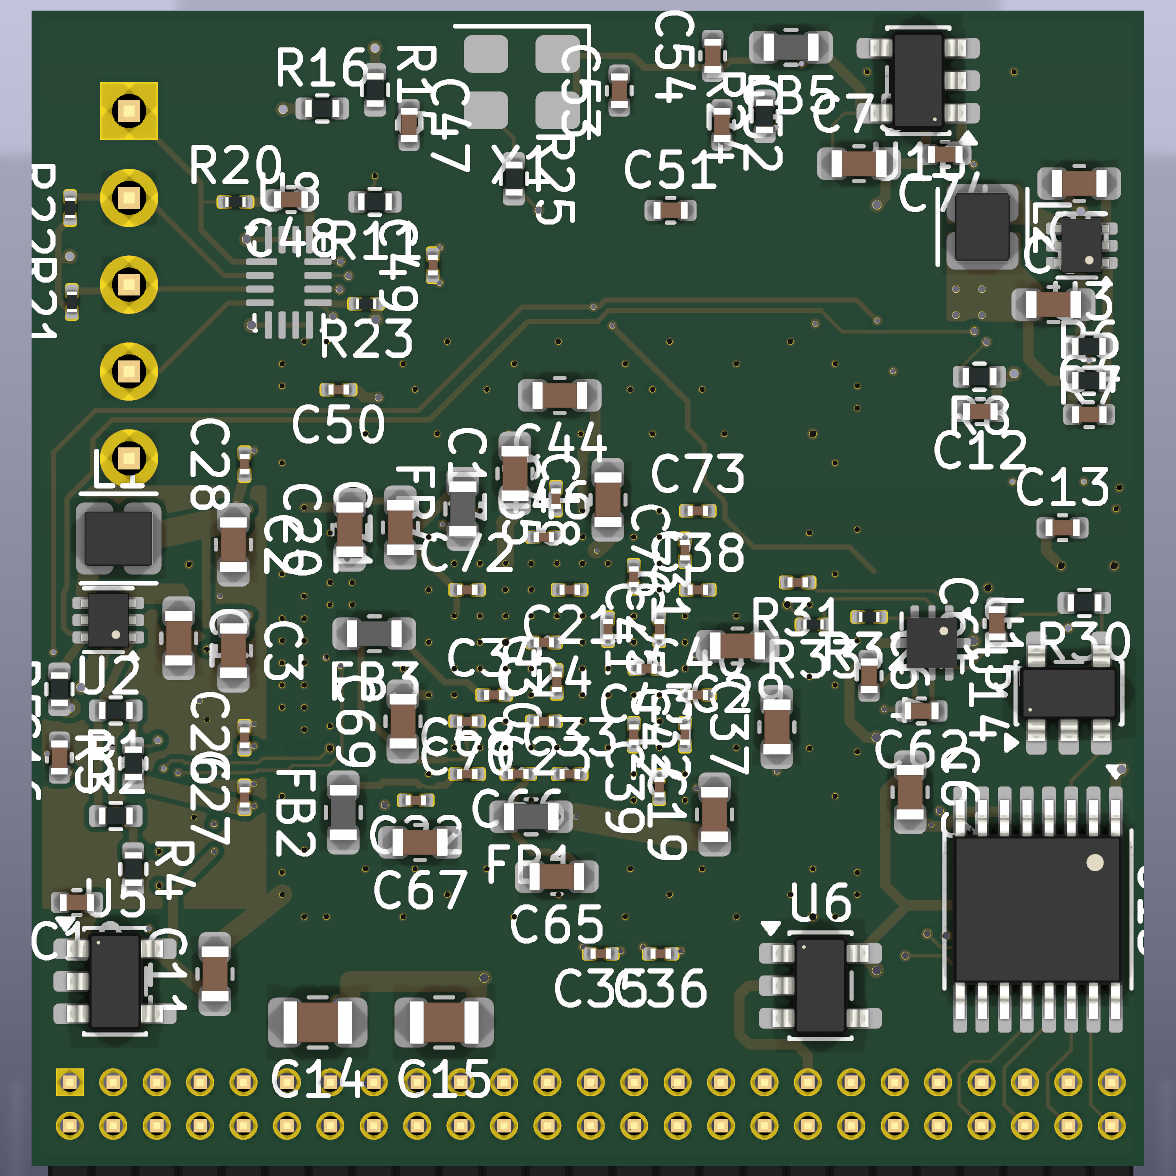
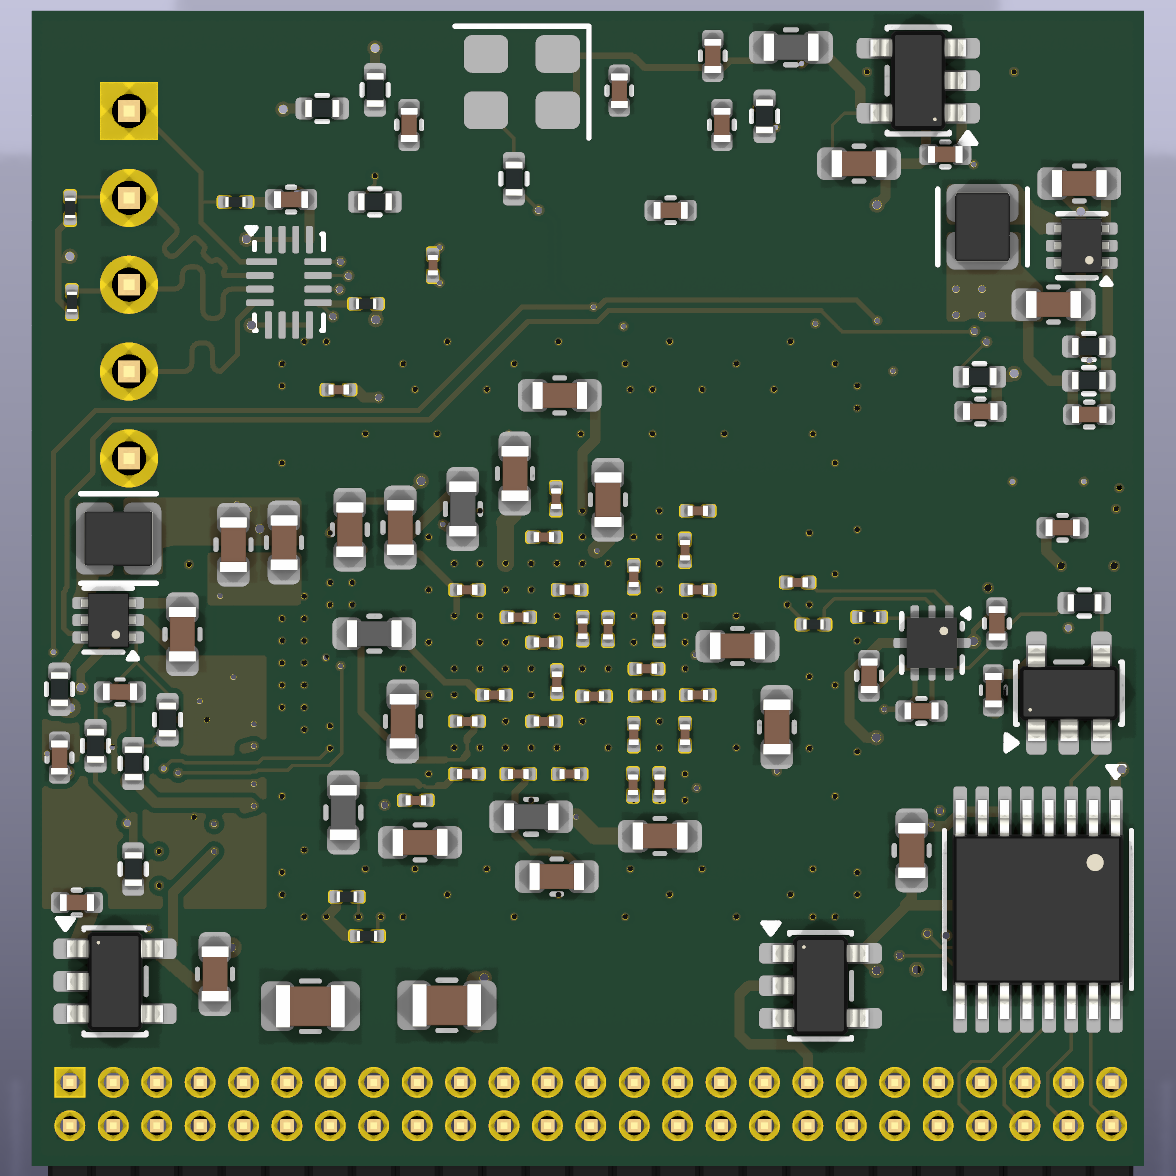
Stackup JLC06161H-3313; docs and board renders for the order
- Board stackup set to JLC06161H-3313 (3313 0.0994 / core 0.55 /
  2116 0.1088 mm), the JLC code to select when ordering. Copper unchanged;
  DRC 0 errors, 0 unconnected, 0 parity.
- docs/img renders regenerated from the final board.
- README: status ready to order, current features, checklists, Global
  Sourcing and stock notes.
- Production checklist: current counts (146 parts, 44 BOM lines, 23
  extended, 270 vias in pads), stock, Global Sourcing workflow, accepted
  deviations. Bring-up checklist: 51k/C77 core divider, PRI_DHB mapping
  question, PWM pull-downs. Design notes: hand-routing and pre-order
  changes, open items. order_checklist.md marked superseded.

diff --git a/docs/jlcpcb_production_checklist.md b/docs/jlcpcb_production_checklist.md
@@ -61,9 +61,9 @@ The numbers below are what the board uses, measured with KiCad's Python on the l
 |---|---|---|
 | Layers / thickness | 6 / 1.6 mm | 6-layer, 1.6 mm offered |
 | Size | 32.5 × 33.8 mm (outline) | above the minimum board size for assembly |
-| Min track width / spacing | 0.09 mm rule, 0.1 mm the narrowest used (853 segments) / 0.1 mm | multilayer min trace/space |
-| Vias (diameter / drill), count | 0.25/0.15 × 217 (216 of them in BGA or 0201 pads), 0.3/0.15 × 73, 0.35/0.2 × 37, 0.45/0.25 × 27 | min via 0.15 mm drill / 0.25 mm diameter for multilayer |
-| Via-in-pad | 267 vias sit in SMD pads | needs **epoxy-filled and capped vias (POFV)**: free on 6+ layers |
+| Min track width / spacing | 0.09 mm rule, 0.1 mm the narrowest used (861 segments) / 0.1 mm | multilayer min trace/space |
+| Vias (diameter / drill), count | 0.25/0.15 × 217 (216 of them in BGA or 0201 pads), 0.3/0.15 × 74, 0.35/0.2 × 37, 0.45/0.25 × 30 | min via 0.15 mm drill / 0.25 mm diameter for multilayer |
+| Via-in-pad | 270 vias sit in SMD pads | needs **epoxy-filled and capped vias (POFV)**: free on 6+ layers |
 | Plated holes | 0.559 mm × 50 (J1, 0.9 mm pads: 0.17 mm annular ring), 1.0 mm × 5 (J2, 1.7 mm pads) | min PTH and annular ring |
 | Drill tool sizes | 0.15, 0.20, 0.25, 0.559, 1.0 mm; no NPTH | |
 | Copper to board edge | ≥ 0.3 mm rule | routed-edge clearance |
@@ -75,8 +75,8 @@ The numbers below are what the board uses, measured with KiCad's Python on the l
   item count, and don't change the design.
 - [ ] **Stackup:** compare the board stackup (KiCad Board Setup → Physical Stackup, or the `(stackup` block in the
   `.kicad_pcb`) with JLC's 6-layer 1.6 mm stackup list.
-  - Board: outer prepreg 0.1 mm "2313", core 0.565 mm, inner prepreg 0.127 mm "2116".
-  - No impedance control is needed. Any JLC 6-layer 1.6 mm stackup is acceptable; note which one the quote uses.
+  - Board: **JLC06161H-3313** (set 2026-10-22): outer prepreg 3313 0.0994 mm, cores 0.55 mm, inner prepreg 2116 0.1088 mm.
+  - Select JLC06161H-3313 in the order form. No impedance control is needed.
 
 ## 3. Generate the order files
 
@@ -84,7 +84,7 @@ The numbers below are what the board uses, measured with KiCad's Python on the l
   `KICAD_ROOT=$K tools/fab_outputs.sh`. Files older than the last board commit are stale.
 - [ ] **Expected console summary:**
   - `Found 0 unconnected items`, `Found 0 schematic parity issues`;
-  - `BOM: 43 lines, 141 parts; CPL: 141 placements; left out: J1, J2` (the counts change if parts were added);
+  - `BOM: 44 lines, 146 parts; CPL: 146 placements; left out: J1, J2` (the counts change if parts were added);
   - a `rotation:` line listing the package offsets;
   - `no LCSC number (Global Sourcing / consigned): U1 (A3CZ065BB18AE7S)`.
 - [ ] **Output in `hardware/fab/`:**
@@ -118,7 +118,7 @@ The numbers below are what the board uses, measured with KiCad's Python on the l
 
 - [ ] **Format:** `bom_jlcpcb.csv` has the header `Comment,Designator,Footprint,LCSC Part #`. Every row except U1 has a
   C-number.
-- [ ] **Designators match:** the BOM designators equal the CPL designators exactly (141 each). J1 and J2 are absent from
+- [ ] **Designators match:** the BOM designators equal the CPL designators exactly (146 each). J1 and J2 are absent from
   both.
 - [ ] **Footprint matches JLC's package.** For each LCSC number, `tools/jlc_search.py <C-number>`, then compare the package
   with the footprint size:
@@ -132,20 +132,21 @@ The numbers below are what the board uses, measured with KiCad's Python on the l
   - Required for each part: `canPresaleNumber ≥ quantity per board × number of boards`, and `minPurchaseNum == 1`.
   - `stockCount` can hide oversold parts. The 49.9 k resistor C25897 showed 831 in stock while −38942 were orderable,
     and was replaced with C137969.
-  - Lowest margins at the last check: ADS7056IRUGR C2669798 (2 per board, 34 orderable), MT25QU256 C2061023 (445),
-    AP61302 C3193204 (678).
-- [ ] **Extended parts:** count the extended parts (`componentLibraryType == "expand"`), about 25. Each adds JLC's one-off
+  - Lowest margins at the last check (2026-10-22): ADS7056IRUGR C2669798 (2 per board, 29 orderable), MT25QU256
+    C2061023 (245), AP61302 C3193204 (681). If the ADS7056 runs short, pre-order it into My Parts Lib.
+- [ ] **Extended parts:** count the extended parts (`componentLibraryType == "expand"`, not `preferredComponentFlag`), 23 at the last check. Each adds JLC's one-off
   extended-part fee; report the total.
 - [ ] **U1:**
   - DigiKey/Mouser part A3CZ065BB18AE7S, matched through Global Sourcing in the order's BOM step, or consigned;
   - confirm the exact part number (Z spec, B18A package, E7S grade).
-  - Global Sourcing adds lead time; note the quoted date.
+  - Global Sourcing adds lead time (JLC: review 1–3 business days, purchase usually 9–20). The parts can only be used in
+    an assembly order once they have arrived in JLC's warehouse and show as in stock in Parts Manager → My Parts Lib.
 - [ ] **DNP:** the BOM excludes DNP parts. R14 (MSEL2 pull-up) is DNP and must not be in the BOM.
 
 ## 6. CPL (placement) and rotations
 
-- [ ] **Format:** `cpl_jlcpcb.csv` has the header `Designator,Mid X,Mid Y,Layer,Rotation`, 141 rows. Layer is `Top` or
-  `Bottom`: 36 top and 105 bottom at the last check.
+- [ ] **Format:** `cpl_jlcpcb.csv` has the header `Designator,Mid X,Mid Y,Layer,Rotation`, 146 rows. Layer is `Top` or
+  `Bottom`: 37 top and 109 bottom at the last check.
 - [ ] **Coordinates:** taken from the board origin used by the Gerbers. After upload, every part must land on its pads in
   JLC's preview. A uniform offset means an origin problem.
 - [ ] **Rotation convention** (`tools/jlc_bom_cpl.py`):
@@ -168,7 +169,7 @@ The numbers below are what the board uses, measured with KiCad's Python on the l
 
 PCB:
 - [ ] 6 layers, 1.6 mm, FR-4 TG155 or better (the default for 6 layers).
-- [ ] **Via covering: "Epoxy Filled & Capped"** (POFV). Required: 267 vias are in pads.
+- [ ] **Via covering: "Epoxy Filled & Capped"** (POFV). Required: 270 vias are in pads.
 - [ ] **Surface finish: ENIG.** Needed for flat pads under the 0.65 mm BGA and the 0201s.
 - [ ] Copper: outer 1 oz, inner 0.5 oz.
 - [ ] Min via hole 0.15 mm and min via diameter 0.25 mm, as the quote's via options state.
@@ -178,9 +179,9 @@ PCB:
   fiducials of its own.
 
 Assembly:
-- [ ] Both sides (36 parts on top, 105 on the bottom).
-- [ ] Upload `bom_jlcpcb.csv` and `cpl_jlcpcb.csv`. All 42 lines with a C-number match automatically; U1 via Global
-  Sourcing.
+- [ ] Both sides (37 parts on top, 109 on the bottom).
+- [ ] Upload `bom_jlcpcb.csv` and `cpl_jlcpcb.csv`. All 43 lines with a C-number (42 part types) match
+  automatically; U1 comes from My Parts Lib once the Global Sourcing FPGAs have arrived.
 - [ ] Quantity: the number of boards to assemble. Check against the lowest stock (the ADS7056, 2 per board).
 - [ ] Optional: X-ray inspection for the BGAs (U1, U7, U9).
 
@@ -206,5 +207,10 @@ Assembly:
   capped by POFV.
 - **One 0.25/0.15 via outside a pad.** JLC's 6-layer minimum via allows it.
 - **U1 has no LCSC number:** Global Sourcing or consigned.
+- **J1 annular ring 0.17 mm** (0.9 mm pads on 0.559 mm drills): above JLC's 0.15 mm minimum, below the 0.20 mm
+  recommendation. Changed from 0.127 mm on 2026-10-22.
+- **C79** (extra +3V3A bypass) sits at the buffer U14, not at mux U13: the user's choice.
+- **Values at JLC's limits**, not inside them: 0.25/0.15 mm vias, the 0.28 mm PTH-hole-to-track rule, 0.2 mm via
+  hole spacing, 0.15 mm silkscreen lines. All are allowed.
 - **J1/J2 not in the BOM/CPL:** soldered by hand.
 - **`reference/bom_draft.csv`** is out of date (the generator's input). The BOM that counts is `hardware/fab/bom_jlcpcb.csv`.

diff --git a/README.md b/README.md
@@ -8,8 +8,11 @@ outline and connector positions.
 |---|---|
 | ![Top side](docs/img/board_top.png) | ![Bottom side](docs/img/board_bottom.png) |
 
-**Status: work in progress.** The schematic is complete, and the board is placed and almost fully routed. The last
-connections are being routed by hand. The board has not been fabricated or tested yet.
+**Status: ready to order (2026-10-22).** The design is complete and fully routed; DRC is clean and the board matches the
+schematic. It passed three independent reviews (production files against JLCPCB's capabilities, electrical design, and the
+Agilex 3 configuration against Altera's guidelines and two evaluation-kit schematics). The FPGAs are being bought through
+JLCPCB Global Sourcing; the assembly order follows when they reach JLC's warehouse. The board has not been built or tested
+yet: `docs/bringup_checklist.md` is the plan for when it arrives.
 
 ## Features
 
@@ -21,12 +24,13 @@ connections are being routed by hand. The board has not been fabricated or teste
 - **Clock:** 100 MHz 1.8 V oscillator into PLLREFCLK1 (D18) and the configuration clock input OSC_CLK_1.
 - **ADC:** 2 channels, each an 8:1 analog mux (SN74LV4051A) → OPA365 buffer → ADS7056 (14-bit, 2.5 MSPS), on a separate
   analog 3.3 V supply.
-- **Power:** from 5 V on the header. Three Diodes AP61x02 bucks (0.75 V core, 1.8 V, 3.3 V) start up in order, each
+- **Power:** from 5 V on the header. Three Diodes AP61x02 bucks (0.753 V core with remote sense, 1.8 V, 3.3 V) start up in order, each
   enabled by the previous one's power-good. LDOs make 1.2 V, analog 3.3 V and a separate 1.8 V for the HyperRAM bank.
   The FPGA's PLL and ADC supplies are filtered with ferrite beads.
 - **Indicators:** 2 RGB LEDs.
-- **Board:** 32.5 × 33.8 mm, 6 layers, 1.6 mm, 0.65 mm-pitch BGA fanned out with filled and capped via-in-pad.
-  Parts are chosen for JLCPCB assembly on both sides.
+- **Board:** 32.5 × 33.8 mm, 6 layers, 1.6 mm (JLC stackup JLC06161H-3313), ENIG, 0.65 mm-pitch BGA fanned out with
+  filled and capped via-in-pad. 146 parts assembled by JLCPCB on both sides (37 top, 109 bottom); the headers J1 and J2
+  are soldered by hand.
 
 ## Repository layout
 
@@ -35,7 +39,7 @@ connections are being routed by hand. The board has not been fabricated or teste
 | `hardware/` | KiCad project: schematic (`control_card.kicad_sch` plus `sheets/`), board, design rules (`control_card.kicad_dru` adds JLCPCB limits) |
 | `hardware/lib/` | Project symbols and footprints, including the Agilex 3 symbol and the B18A BGA footprint |
 | `reference/` | FPGA pin assignment (`pin_assignment.csv`), Altera pin lists, power-board header pinout, JLCPCB part list |
-| `docs/` | Design notes, Agilex 3 board requirements, flash requirements, order checklist |
+| `docs/` | Design notes, Agilex 3 board requirements, flash requirements, production and bring-up checklists, board renders |
 | `tools/` | Python scripts that generated the schematic and board, plus the fabrication-output scripts |
 
 ## Documentation
@@ -44,7 +48,11 @@ connections are being routed by hand. The board has not been fabricated or teste
 - [`docs/agilex3_requirements.md`](docs/agilex3_requirements.md): what the FPGA needs from the board (supply rails,
   bank voltages, power-up order, configuration pins) and how this card meets each requirement.
 - [`docs/agilex_flash_requirements.md`](docs/agilex_flash_requirements.md): configuration flash requirements.
-- [`docs/order_checklist.md`](docs/order_checklist.md): the remaining steps from routing to a JLCPCB order.
+- [`docs/jlcpcb_production_checklist.md`](docs/jlcpcb_production_checklist.md): verifying the design and order files
+  against JLCPCB's capabilities, plus the order-form settings.
+- [`docs/bringup_checklist.md`](docs/bringup_checklist.md): testing the assembled boards, from inspection and first
+  power-up to configuration, HyperRAM, ADCs and the power-board interface.
+- [`docs/order_checklist.md`](docs/order_checklist.md): the earlier hand-off list from routing to ordering (history).
 
 ## Opening the design
 
@@ -63,7 +71,11 @@ This writes `hardware/fab/`:
 - a DRC report.
 
 The headers J1 and J2 are left out of the assembly files, because they are soldered by hand. The FPGA has no JLCPCB
-part number, so order it through JLCPCB's Global Sourcing or supply it yourself.
+part number, so order it through JLCPCB's Global Sourcing or supply it yourself. Global Sourcing parts can only be used
+in an assembly order once they have arrived in JLC's warehouse (Parts Manager → My Parts Lib).
+
+Check stock right before ordering: judge each part by JLC's orderable quantity and minimum purchase, not the plain stock
+count (see the production checklist, section 5).
 
 ## FPGA pin assignment
 

diff --git a/docs/design-notes.md b/docs/design-notes.md
@@ -157,7 +157,7 @@ Before routing:
 
 ## Power distribution plan (agreed 2026-10-12)
 
-Stackup: JLC 6-layer 2313 build, assumed 1.6 mm. From top to bottom (dielectric between each copper layer in brackets): L1 (0.1 mm) L2 (0.565 mm core) L3 (0.127 mm) L4 (0.565 mm core) L5 (0.1 mm) L6. Verify with JLC's impedance calculator. Inner copper 0.5 oz, which is fine for L4.
+Stackup: JLC06161H-3313 (1.6 mm, set 2026-10-22; first drawn as a "2313" build that matched no JLC code). From top to bottom (dielectric between each copper layer in brackets): L1 (3313 prepreg 0.0994 mm) L2 (0.55 mm core) L3 (2116 prepreg 0.1088 mm) L4 (0.55 mm core) L5 (3313 prepreg 0.0994 mm) L6. Inner copper 0.5 oz, which is fine for L4.
 
 | Layer | Use |
 |---|---|
@@ -320,6 +320,29 @@ Result (also the FPGA channel table, in `reference/mux_assignment.csv`):
   - LEDs: LED1_G, LED1_R, LED2_B, LED2_R, LED3_B
 - **Why they're left:** they're crowded in the left-side ADC column and around the config pull-ups. Some can't route at all past the existing copper. Others need detours of 18–38 mm with 3–6 vias.
 
+## Hand routing and pre-order changes (2026-10-19 to 2026-10-22)
+
+The user finished the routing by hand; the generator scripts are no longer used. Changes made after the generated design:
+- **HyperRAM moved to bank 6D** (schematic and routing) for easier length matching. The 11 matched nets (DQ0–7, RWDS,
+  CS#, RESET#) are 10.80–10.85 mm, held by the DRC rule `hyperram_length`; HR_CK is excluded. HR_DQ5–7 labels at the
+  memory were corrected so each net HR_DQn reaches memory pin DQn.
+- **Pin swaps for routing** (ADC SPI, LEDs, J1 PWM group): `reference/pin_assignment.csv` is regenerated from the netlist.
+- **Bottom-layer copper zones** at the 0.75 V and 1.8 V bucks (switch node, output and GND).
+- **Silkscreen:** reference designators hidden (no room to make them readable); outlines 0.15 mm.
+- **J1 pads 0.9 mm** (annular ring 0.17 mm; JLC minimum 0.15 mm).
+- **Default via** 0.3/0.15 mm; via-in-pads in the 0.3 mm BGA pads are 0.25/0.15 mm.
+- **From the three pre-order reviews:**
+  - C77 100 pF C0G feed-forward across R1 (the AP61302 requires it);
+  - C4/C7 33 pF (AP61102 datasheet value);
+  - R40/R41 10 k pull-downs on EPWM2A/EPWM2B (the power board has none on those two lines; it has 10 k pull-downs on
+    the other PWM lines);
+  - C78/C79 extra 100 nF on +3V3A (C78 at mux U10, C79 at buffer U14).
+- **BOM swaps for JLC stock and fees:** oversold or low-stock parts replaced with equivalents (4.7 µF 0201, 47 µF 0603,
+  680 pF C0G, 33 Ω 0201 on 0201 pads); R1 51k basic (core 0.753 V). 23 extended part types.
+- **Stackup** set to JLC06161H-3313.
+- `tools/jlc_bom_cpl.py` writes CPL rotations in JLC's convention (bottom side 180° − angle, package offsets).
+
 ## Open items
 
-- Core current estimate (Altera Power and Thermal Calculator). Confirms AP61302 (3 A) for the core and AP61102 (1 A) for 1.8 V.
+- Core current estimate (Altera Power and Thermal Calculator). Confirms AP61302 (3 A) for the core and AP61102 (1 A) for 1.8 V. The review also flagged the 1 µH 2016 core inductor L1 (fine below about 1.5 A) and the TLV75512's dissipation if the 1.2 V current is high.
+- PRI_DHB_HI/LO: the power board's Si8274 PWM input appears to be driven by the card's PRI_DHB_LO (see `docs/bringup_checklist.md`, section 10).

diff --git a/docs/bringup_checklist.md b/docs/bringup_checklist.md
@@ -49,7 +49,8 @@ order and stop at the first failure. Record every measurement in the log at the 
 | +1V8_OSC | FB5 from +1V8_HR | ≈1.80 V | FB5 pin 2, C54 pin 1 | with +1V8_HR |
 
 - **Core regulator sense:** the core regulator senses the voltage at the FPGA balls (VCC_SENSE_P at AH33, VCC_SENSE_N at
-  AL33), through R1/R2. R3 (100 Ω) and R4 (10 Ω) give a local fallback path if the sense lines are open.
+  AL33), through R1/R2 (51k/200k). C77 (100 pF C0G) across R1 is the feed-forward capacitor the AP61302 requires. R3 (100 Ω)
+  and R4 (10 Ω) give a local fallback path if the sense lines are open.
 - **Tolerances:** use ±3 % as the screening limit. The exact Agilex 3 limits are in the Device Data Sheet (848370); check
   VCC/VCCP (0.75 V for −7S) against it before running heavy designs.
 
@@ -85,8 +86,9 @@ order and stop at the first failure. Record every measurement in the log at the 
   - no tombstoned 0201s under the BGA (bottom side, C21–C46, C66–C76);
   - BGAs sit flat. If JLC supplied X-ray images of U1/U7/U9, look for voids and bridges.
 - [ ] **Hand-soldered J1 and J2:** no bridges between the 1.27 mm-pitch J1 pins. J1 pin 1 is the square pad.
-- [ ] **Bottom-side parts present** (105 of the 141 assembled parts are on the bottom). Compare with the 3D render
-  `docs/img/board_bottom.png` (made before final routing, so the copper differs, but the parts don't).
+- [ ] **Bottom-side parts present** (109 of the 146 assembled parts are on the bottom). Compare with the 3D renders
+  `docs/img/board_top.png` and `docs/img/board_bottom.png` (final design; U1, U7 and U9 show as bare pads because their
+  footprints have no 3D model, and J1/J2 are drawn although they're soldered by hand).
 
 ## 2. Resistance checks (no power)
 
@@ -212,6 +214,13 @@ Check the generated `.qsf` for the exact assignment names your Quartus version w
   odd pin n mates with power-board pin n+1.
   - Two power-board labels differ from the card's: `heater_cap_ad_meas` vs `heater_cap_meas`, and `Cuk_cap_meas_raw`.
     Check whether those analog pins are actually connected on the power board.
+  - **PRI_DHB_HI / PRI_DHB_LO:** in the power board's KiCad transcription (`/home/jari/dev/tube_psu_kicad`), the Si8274
+    (DRV5) PWM input, pin 1, is driven by the card's **PRI_DHB_LO**, and PRI_DHB_HI goes to its pin 2 (NC1). That is
+    the opposite of `reference/power_board_header.csv`. Confirm on the original tube_power 5.1 schematic before writing
+    the half-bridge PWM firmware.
+  - **Pull-downs:** the power board has 10 k pull-downs on PRI_DHB_HI/LO, EPWM5A, EPWM6A and PFC_PWM1/2. The card adds
+    R40/R41 (10 k) on EPWM2A/EPWM2B, which drive the power board's Si8661 isolator inputs. EPWM1A goes nowhere on the
+    power board.
 - [ ] **Outputs:** toggle each FPGA output (EPWM*, PRI_DHB_*, CUK_CS, GPIO_*) from a test design and probe it at its J1
   pin: 0/3.3 V levels and correct pin.
 - [ ] **Inputs:** drive each J1 input at 3.3 V with a pull resistor and read it back in the FPGA.

diff --git a/docs/order_checklist.md b/docs/order_checklist.md
@@ -1,5 +1,8 @@
 # Hand-off checklist: from here to a JLCPCB order
 
+> **Superseded (2026-10-22).** This was the hand-off list before the hand routing. For ordering, use
+> `docs/jlcpcb_production_checklist.md`; for testing the boards, `docs/bringup_checklist.md`. Kept as history.
+
 Board state after the clock move to D18 (2026-10-18):
 - no copper DRC errors with the JLC rules in `hardware/control_card.kicad_dru`;
 - schematic and board match;
@@ -102,7 +105,7 @@ Memory and I/O:
 ## E. JLCPCB order
 
 PCB:
-- [ ] 6 layers, 1.6 mm. Stackup: JLC's "2313" build, as set in the board. Confirm the stackup code in the quote.
+- [ ] 6 layers, 1.6 mm. Stackup: JLC06161H-3313, as set in the board. Select it in the order form.
 - [ ] Outer copper 1 oz, inner 0.5 oz.
 - [ ] Min hole 0.15 mm, min via 0.25 mm (BGA via-in-pad).
 - [ ] **Via-in-pad: epoxy filled and capped** (POFV). Free on 6 layers, and required for the BGA, flash and HyperRAM.
